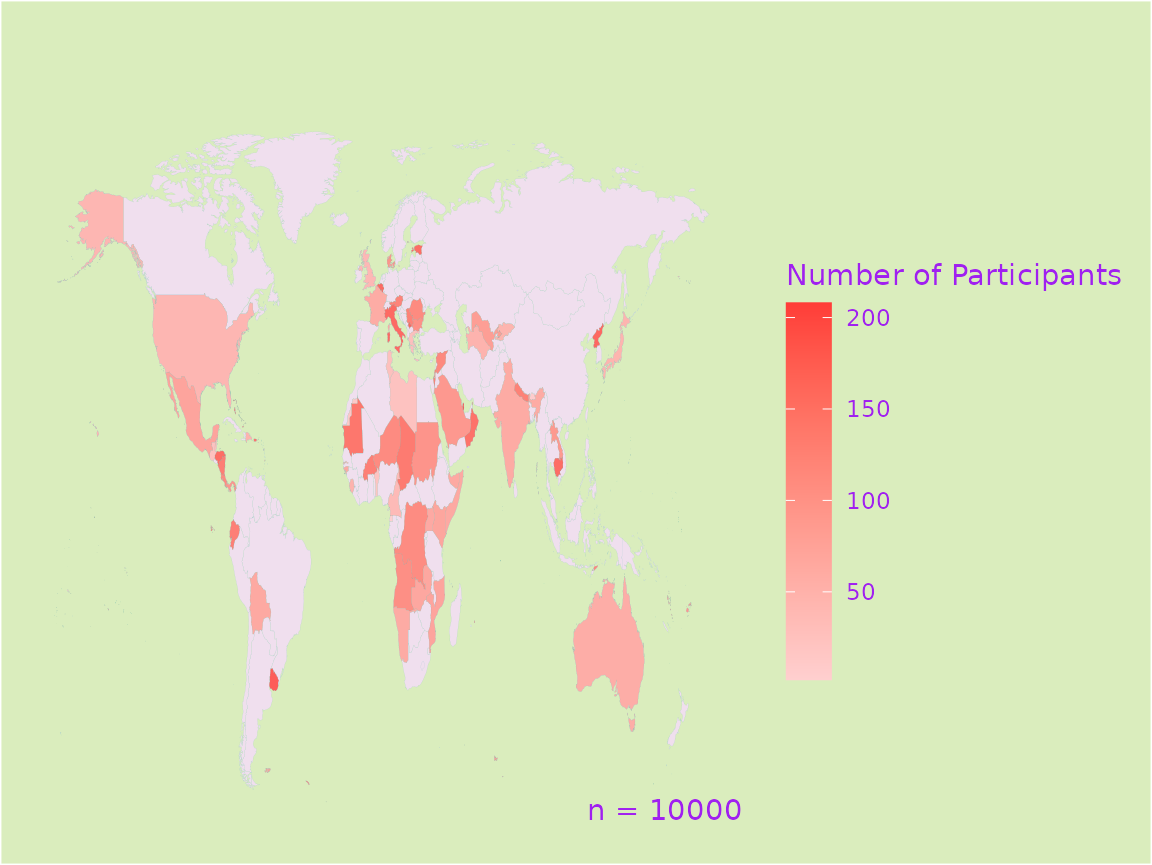
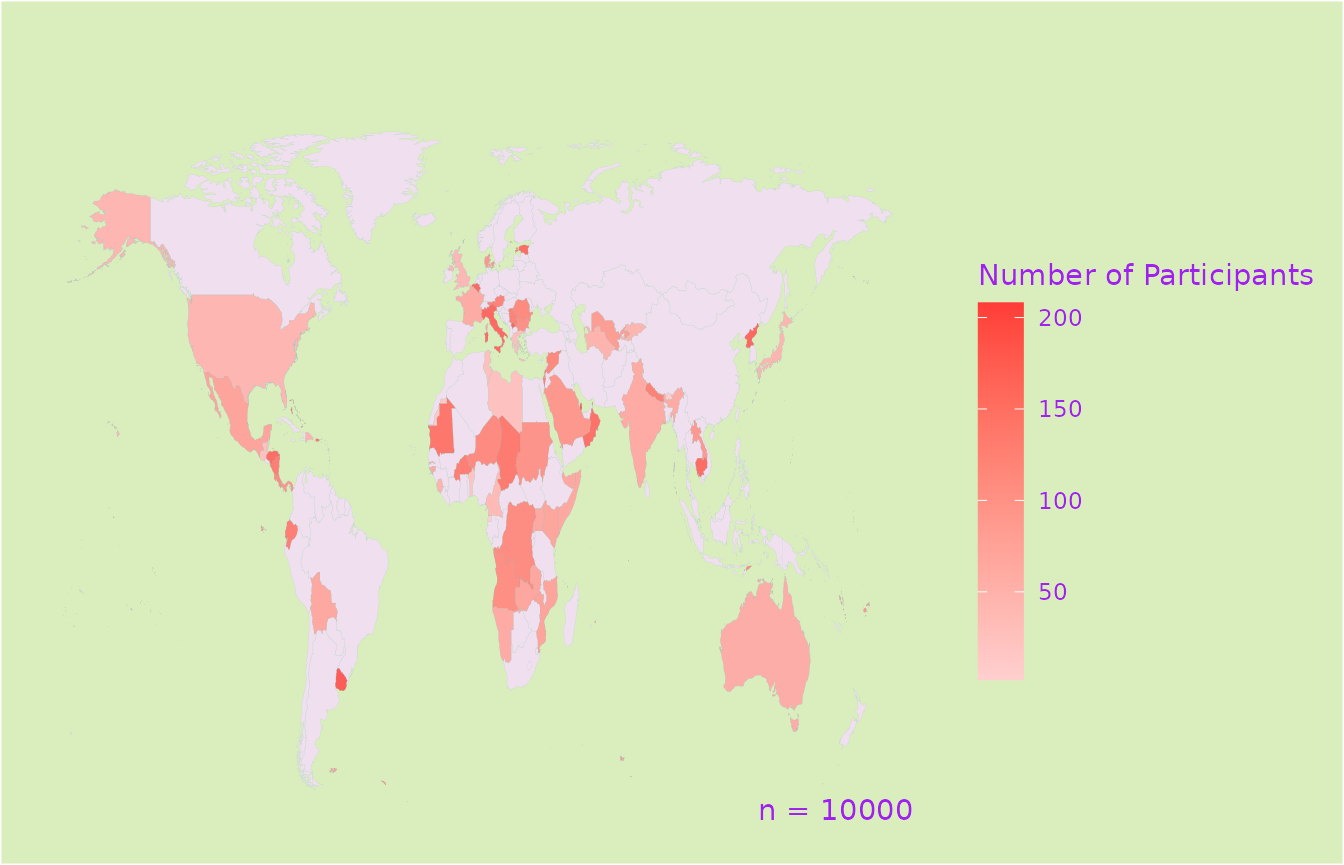
Deploying to gh-pages from @ Infectious-Diseases-Data-Observatory/worlddatr@97de2e98358df99ad3dbbd3c93cf3b2cc2265e58 🚀

diff --git a/articles/worlddatr.html b/articles/worlddatr.html
@@ -199,7 +199,7 @@ name of the column where the three digit ISO country code exists
 <div class="sourceCode" id="cb5"><pre class="downlit sourceCode r">
 <code class="sourceCode R"><span><span class="fu"><a href="../reference/create_participant_map.html">create_participant_map</a></span><span class="op">(</span>data        <span class="op">=</span> <span class="va">country_data</span>,</span>
 <span>                       country_col <span class="op">=</span> <span class="st">"COUNTRY"</span><span class="op">)</span></span></code></pre></div>
-<p><img src="worlddatr_files/figure-html/unnamed-chunk-5-1.png" width="576" style="display: block; margin: auto;"></p>
+<p><img src="worlddatr_files/figure-html/unnamed-chunk-5-1.png" width="672" style="display: block; margin: auto;"></p>
 <p>This visualises the example data, along with legend and the total
 number, n, of participants. Although, perhaps you do not want n to be
 displayed and you’ll note that Antarctica is not present, using extra
@@ -209,7 +209,7 @@ parameters we can change that.</p>
 <span>                       country_col <span class="op">=</span> <span class="st">"COUNTRY"</span>,</span>
 <span>                       include_n   <span class="op">=</span> <span class="cn">FALSE</span>,</span>
 <span>                       include_ATA <span class="op">=</span> <span class="cn">TRUE</span><span class="op">)</span></span></code></pre></div>
-<p><img src="worlddatr_files/figure-html/unnamed-chunk-6-1.png" width="576" style="display: block; margin: auto;"></p>
+<p><img src="worlddatr_files/figure-html/unnamed-chunk-6-1.png" width="672" style="display: block; margin: auto;"></p>
 <p>The title and subtitle can be added to the plot to provide more
 information about your graphic, and the legend title can be changed, or
 removed by leaving the option blank.</p>
@@ -219,7 +219,7 @@ removed by leaving the option blank.</p>
 <span>                       title       <span class="op">=</span> <span class="st">"Number of Participants in Studies across Countries"</span>,</span>
 <span>                       subtitle    <span class="op">=</span> <span class="st">"Data from studies registered between 2000 - 2024"</span>,</span>
 <span>                       legend      <span class="op">=</span> <span class="st">"Some Legend"</span><span class="op">)</span></span></code></pre></div>
-<p><img src="worlddatr_files/figure-html/unnamed-chunk-7-1.png" width="576" style="display: block; margin: auto;"></p>
+<p><img src="worlddatr_files/figure-html/unnamed-chunk-7-1.png" width="672" style="display: block; margin: auto;"></p>
 <p>Blue not your colour? No problem, customise the colours of the
 countries, borders, text and background easily.</p>
 <div class="sourceCode" id="cb8"><pre class="downlit sourceCode r">
@@ -231,7 +231,7 @@ countries, borders, text and background easily.</p>
 <span>                       colour_borders <span class="op">=</span> <span class="st">"#20A39E"</span>,</span>
 <span>                       colour_background <span class="op">=</span> <span class="st">"#DAEDBD"</span>,</span>
 <span>                       colour_text <span class="op">=</span> <span class="st">"purple"</span><span class="op">)</span></span></code></pre></div>
-<p><img src="worlddatr_files/figure-html/unnamed-chunk-8-1.png" width="576" style="display: block; margin: auto;"></p>
+<p><img src="worlddatr_files/figure-html/unnamed-chunk-8-1.png" width="672" style="display: block; margin: auto;"></p>
 <p>You can change the scale breaks on the legend using
 <code>scale_breaks</code> and log transform the scale using
 <code>log_scale</code>.</p>
@@ -239,14 +239,14 @@ countries, borders, text and background easily.</p>
 <code class="sourceCode R"><span><span class="fu"><a href="../reference/create_participant_map.html">create_participant_map</a></span><span class="op">(</span>data        <span class="op">=</span> <span class="va">country_data</span>,</span>
 <span>                       country_col <span class="op">=</span> <span class="st">"COUNTRY"</span>,</span>
 <span>                       scale_breaks <span class="op">=</span> <span class="fu"><a href="https://rdrr.io/r/base/c.html" class="external-link">c</a></span><span class="op">(</span><span class="fl">10</span>, <span class="fl">50</span>, <span class="fl">100</span>, <span class="fl">180</span>, <span class="fl">200</span><span class="op">)</span><span class="op">)</span></span></code></pre></div>
-<p><img src="worlddatr_files/figure-html/unnamed-chunk-9-1.png" width="576" style="display: block; margin: auto;"></p>
+<p><img src="worlddatr_files/figure-html/unnamed-chunk-9-1.png" width="672" style="display: block; margin: auto;"></p>
 <div class="sourceCode" id="cb10"><pre class="downlit sourceCode r">
 <code class="sourceCode R"><span></span>
 <span><span class="fu"><a href="../reference/create_participant_map.html">create_participant_map</a></span><span class="op">(</span>data        <span class="op">=</span> <span class="va">country_data</span>,</span>
 <span>                       country_col <span class="op">=</span> <span class="st">"COUNTRY"</span>,</span>
 <span>                       log_scale   <span class="op">=</span> <span class="cn">TRUE</span>,</span>
 <span>                       legend      <span class="op">=</span> <span class="st">"Log Scale of Participants"</span><span class="op">)</span></span></code></pre></div>
-<p><img src="worlddatr_files/figure-html/unnamed-chunk-9-2.png" width="576" style="display: block; margin: auto;"></p>
+<p><img src="worlddatr_files/figure-html/unnamed-chunk-9-2.png" width="672" style="display: block; margin: auto;"></p>
 <p>This does not intend to be the only solution and we encourage you to
 use the code in the GitHub to develop graphs more specific to your
 needs, this hopes to provide some inspiration, without spending hours to

diff --git a/index.html b/index.html
@@ -54,12 +54,17 @@
 <!-- badges: end -->
 <p>Country and Territory data including ISO codes, World Bank income groups, longitude and latitude. These can be used to plot choropleth maps and other spatial statistical analysis.</p>
 <p>Creating maps to showcase the global distribution of studies or participants is a powerful way to visualise data, however, extracting the necessary information and data cleaning can often be time-consuming and burdensome. Some datasets use 3 digit ISO codes, while others use 2 digit or the just the name of the country. Country name is often problematic as they are not standardised, for instance, North Korea can be recorded as N. Korea or Democratic People’s Republic of Korea, likewise Spain and España. Accents and other special characters which are not machine readable also prevent smooth merging of data. Some data sources may group territories, such as Jersey &amp; Guernsey represented as simply ‘Channel Islands’.</p>
-<p>Key features of worlddatr include: - Pre-processed Datasets: Access to pre-cleaned datasets that are ready to merge with your data, reducing the time spent on data preparation. - One-command Utilty: Functions that allow you to produce maps with a single command, while still providing control over customisation options such as colours, titles, and legends. - Open Source and Community-driven: Being open-source, worlddatr invites users to build upon its code, tailor visualisations to their specific needs, and contribute improvements back to IDDO, enhancing the tool for the entire research community.</p>
+<p>Key features of worlddatr include:</p>
+<ul>
+<li>Pre-processed Datasets: Access to pre-cleaned datasets that are ready to merge with your data, reducing the time spent on data preparation.</li>
+<li>One-command Utilty: Functions that allow you to produce maps with a single command, while still providing control over customisation options such as colours, titles, and legends.</li>
+<li>Open Source and Community-driven: Being open-source, worlddatr invites users to build upon its code, tailor visualisations to their specific needs, and contribute improvements back to IDDO, enhancing the tool for the entire research community.</li>
+</ul>
 <p>By using worlddatr, researchers can efficiently visualise and analyse global data trends, focusing more on their research and less on data manipulation.</p>
 <div class="section level2">
 <h2 id="installation">Installation<a class="anchor" aria-label="anchor" href="#installation"></a>
 </h2>
-<p>You can install the <code>worlddatr</code> package from <a href="https://github.com/" class="external-link">GitHub</a> with:</p>
+<p>You can install the <code>worlddatr</code> package from <a href="https://github.com/Infectious-Diseases-Data-Observatory/worlddatr" class="external-link">GitHub</a> with:</p>
 <div class="sourceCode" id="cb1"><pre class="downlit sourceCode r">
 <code class="sourceCode R"><span><span class="co"># install.packages("devtools") #if you have not previously installed 'devtools' on your machine</span></span>
 <span><span class="fu">devtools</span><span class="fu">::</span><span class="fu">install_github</span><span class="op">(</span><span class="st">"Infectious-Diseases-Data-Observatory/worlddatr"</span>, dependencies <span class="op">=</span> <span class="cn">TRUE</span>, build_vignettes <span class="op">=</span> <span class="cn">TRUE</span><span class="op">)</span></span>
@@ -93,7 +98,7 @@
 </ul>
 <p>```{r} head(world_income)</p>
 <p>head(world_map) ```</p>
-<p>A vignette will be produced to demostrate how to use the data and functions.</p>
+<p>A vignette demonstrating the package can be found <a href="https://infectious-diseases-data-observatory.github.io/worlddatr/articles/worlddatr.html">here.</a></p>
 </div>
 <div class="section level2">
 <h2 id="citation">Citation<a class="anchor" aria-label="anchor" href="#citation"></a>

diff --git a/reference/worlddatr-package.html b/reference/worlddatr-package.html
@@ -38,11 +38,17 @@
 
 
     <div class="section level2">
+    <h2 id="see-also">See also<a class="anchor" aria-label="anchor" href="#see-also"></a></h2>
+    <div class="dont-index"><p>Useful links:</p><ul><li><p><a href="https://infectious-diseases-data-observatory.github.io/worlddatr/">https://infectious-diseases-data-observatory.github.io/worlddatr/</a></p></li>
+</ul></div>
+    </div>
+    <div class="section level2">
     <h2 id="author">Author<a class="anchor" aria-label="anchor" href="#author"></a></h2>
     <p><strong>Maintainer</strong>: Rhys Peploe <a href="mailto:rhys.peploe@iddo.org">rhys.peploe@iddo.org</a> (<a href="https://orcid.org/0009-0001-1669-3716" class="external-link">ORCID</a>)</p>
     </div>
 
-  </main></div>
+  </main><aside class="col-md-3"><nav id="toc" aria-label="Table of contents"><h2>On this page</h2>
+    </nav></aside></div>
 
 
     <footer><div class="pkgdown-footer-left">
